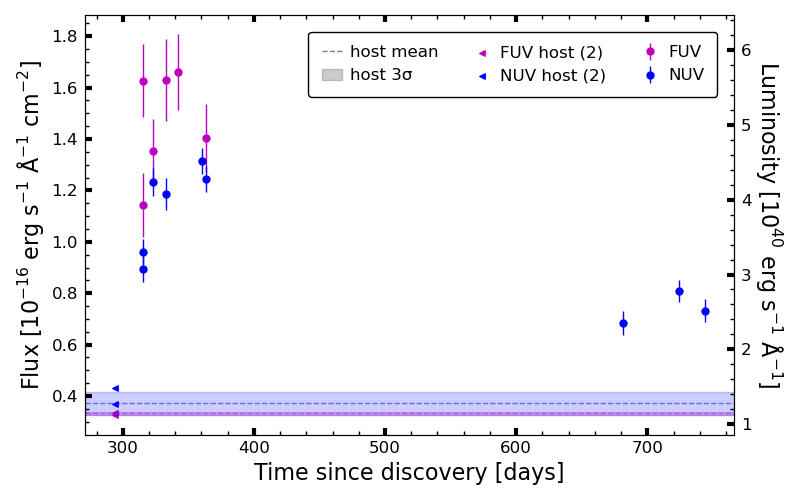
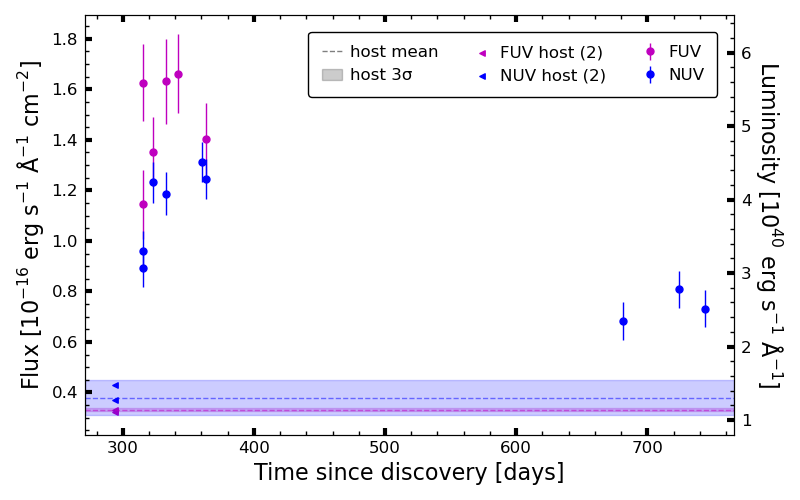
fixed systematic error for few points

diff --git a/lc_utils.py b/lc_utils.py
@@ -110,13 +110,15 @@ def add_systematics(lc, band, quantity='all'):
     return lc
 
 
-def galex_mag2cps(mag, band):
+def galex_mag2cps(mag, mag_err, band):
     """
     Converts AB magnitudes measured by GALEX into flux
     """
 
     zero_point = {'FUV': 18.82, 'NUV': 20.08}
-    return 10 ** (2/5 * (np.vectorize(zero_points.get)(band) - mag))
+    cps = 10 ** (2/5 * (np.vectorize(zero_point.get)(band) - mag))
+    cps_err = cps * (2/5) * np.log(10) * mag_err
+    return cps, cps_err
 
 
 def galex_cps2flux(cps, band):
@@ -186,14 +188,23 @@ def get_background(lc, band, data_col):
     # For few background points, use the polynomial fit of |MCAT - gAper| errors
     # based on the original gAperture (non-background-subtracted) magnitudes
     else:
-        sys_err_mag = gAper_sys_err(np.array(before['mag']), band)
-        sys_err = galex_cps2flux(galex_mag2cps(sys_err_mag, band), band)
+        # Base systematic error on original magnitudes
+        mag = np.array(before['mag'])
+        sys_err_mag = gAper_sys_err(mag, band)
+        # Convert mag -> cps -> flux
+        cps, cps_err = galex_mag2cps(mag, sys_err_mag, band)
+        sys_err = galex_cps2flux(cps_err, band)
+        # Weighted mean of systematic errors by background statistical errors
+        sys_stats = DescrStatsW(sys_err, weights=1/err**2, ddof=0)
+        sys_err = sys_stats.mean
         new_err = np.sqrt(err ** 2 + sys_err ** 2)
+        # If a handful of before points, use weighted mean
         if len(before.index) > 1:
             # Determine background from weighted average of data before discovery
             weighted_stats = DescrStatsW(data, weights=1/new_err**2, ddof=0)
             bg = weighted_stats.mean
             bg_err = weighted_stats.std
+        # If not, use the first point
         else:
             bg = lc.reset_index(drop=True).loc[0, data_col]
             bg_err = lc.reset_index(drop=True).loc[0, err_col]

diff --git a/fancy_plot.py b/fancy_plot.py
@@ -36,8 +36,8 @@ def main():
             plot(sn, sn_info, args)
         except FileNotFoundError:
             print('%s is missing at least one LC file! Skipping for now.' % sn)
-        except ValueError:
-            print('%s is missing a Swift data entry, or something else went wrong.' % sn)
+        # except ValueError:
+        #     print('%s is missing a Swift data entry, or something else went wrong.' % sn)
 
 
 def plot(sn, sn_info, args):

diff --git a/utils.py b/utils.py
@@ -30,6 +30,7 @@ def output_csv(df, file, **kwargs):
         df.to_csv(tmp_file, **kwargs)
 
 
+# https://asd.gsfc.nasa.gov/archive/galex/FAQ/counts_background.html
 def galex_ab_mag(cps, band):
     const = 18.82 if band=='FUV' else 20.08
     return -2.5 * np.log10(cps) + const
